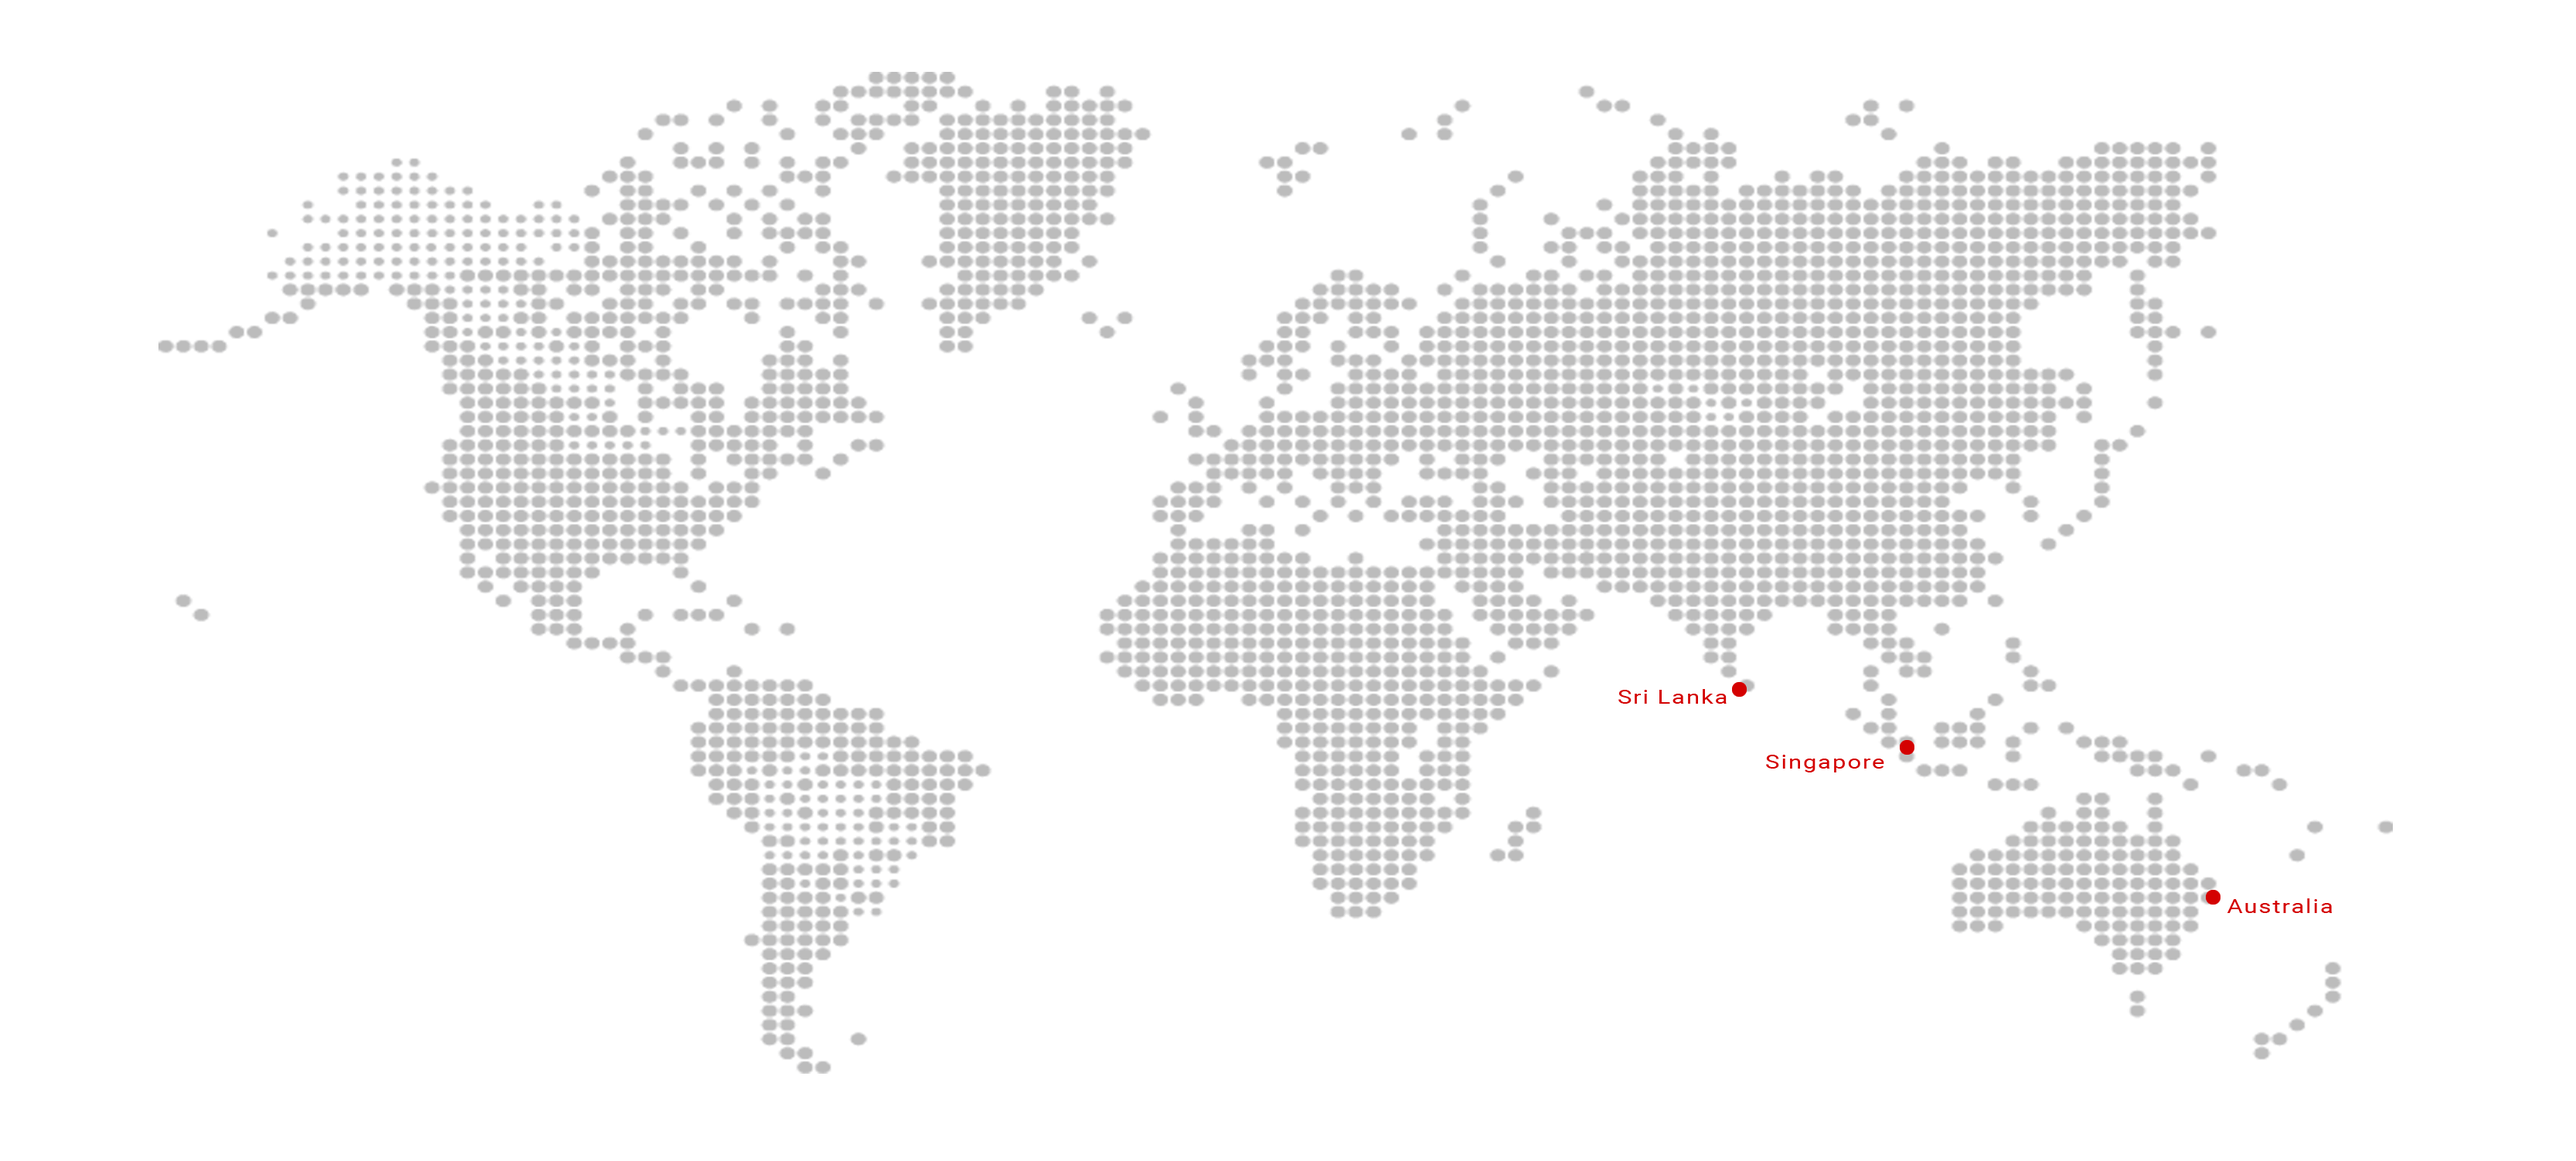
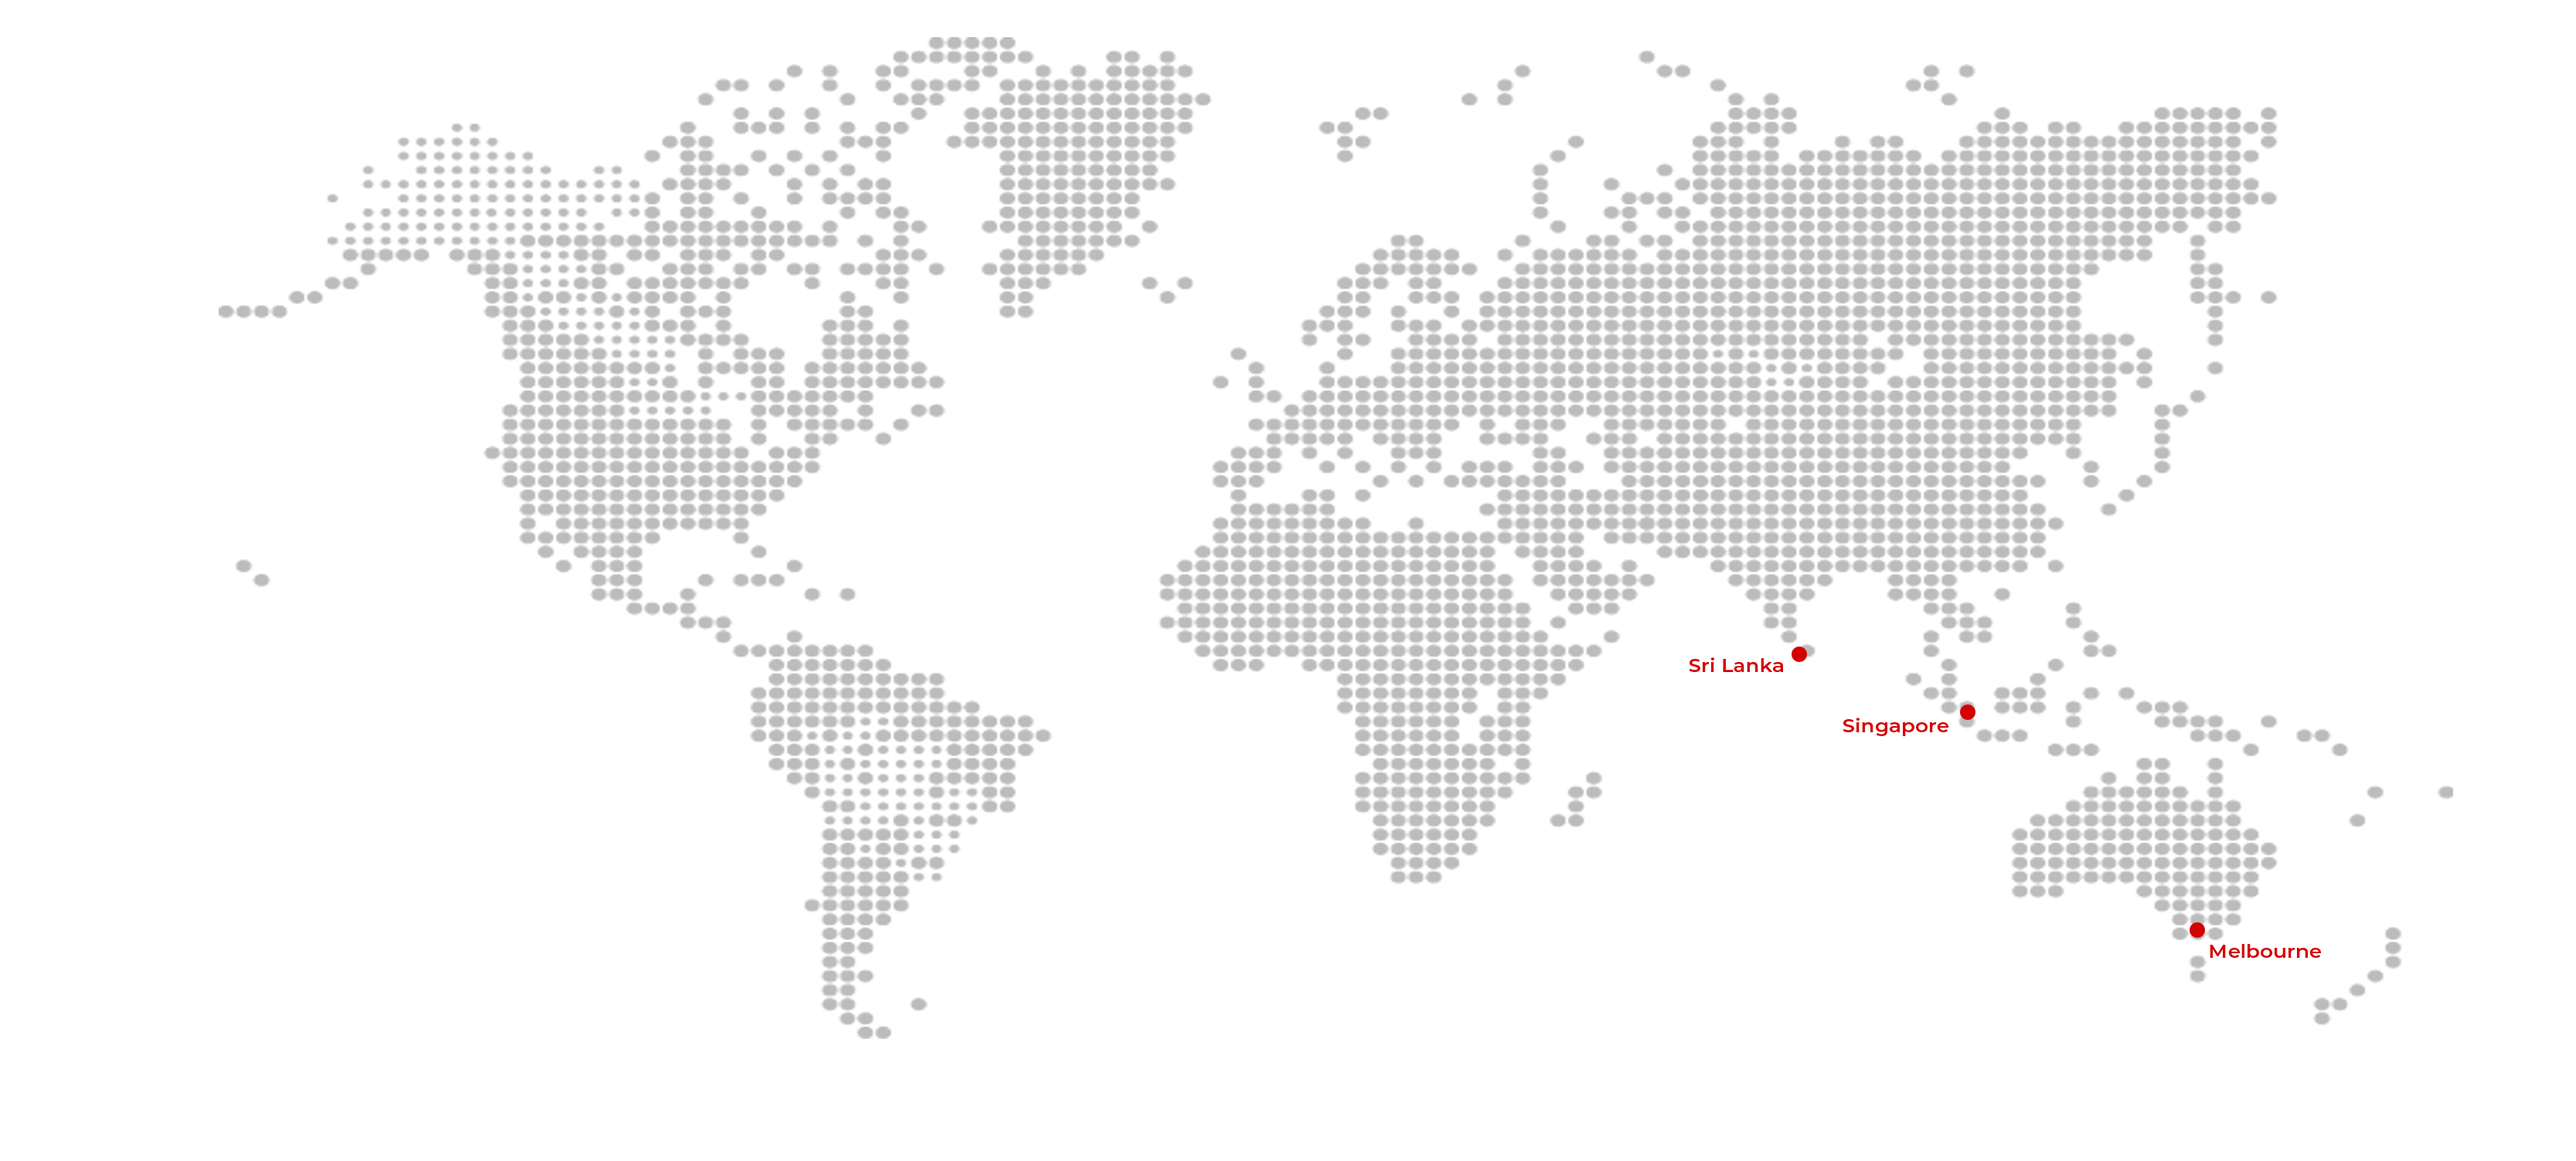
Add new modification home

diff --git a/index.html b/index.html
@@ -379,7 +379,7 @@
                                 <div class="cReport">
                                     <h3> M&T FLAGSHIP PRODUCT </h3>
                                     <h2> Smart Transit </h2>
-                                    <h4 class="crop-text-4 text-justify">Comprehensive, Interoperable, Open Standard and Cloud Ready Automated Fare Collection (AFC) Platform to Track, Collect & Automate transportation operation workflows, fleet, assets, routes, customers, drivers and other stakeholders.</h4>
+                                    <h4 class="crop-text-4 text-left">Comprehensive, Interoperable, Open Standard and Cloud Ready Automated Fare Collection (AFC) Platform to Track, Collect & Automate transportation operation workflows, fleet, assets, routes, customers, drivers and other stakeholders.</h4>
                                     <br>
                                 </div>
                                 <div class="row">
@@ -399,7 +399,7 @@
                                 <div class="cReport">
                                     <h3> BFSI FLAGSHIP PRODUCT </h3>
                                     <h2> Smart Pay </h2>
-                                    <h4 class="crop-text-4 text-justify">BFSI service providers such as commercial banks, specialized banks, micro finance companies, credit unions and other payment service providers to bestow cashless, queue-less, hassle-less, financial inclusive neo banking level services to consumers, merchants and SMEs.</h4>
+                                    <h4 class="crop-text-4 text-left">BFSI service providers such as commercial banks, specialized banks, micro finance companies, credit unions and other payment service providers to bestow cashless, queue-less, hassle-less, financial inclusive neo banking level services to consumers, merchants and SMEs.</h4>
                                     <br>
                                 </div>
                                 <div class="row">
@@ -419,7 +419,7 @@
                                 <div class="cReport">
                                     <h3> RETAIL FLAGSHIP PRODUCT </h3>
                                     <h2> Smart Shopper </h2>
-                                    <h4 class="crop-text-4 text-justify"> Mobile centric, Digital Marketplace & Payment Platform for all the users across entire retail value chain, which creates a positive customer experience and better synergy with whole stakeholders. </h4>
+                                    <h4 class="crop-text-4 text-left"> Mobile centric, Digital Marketplace & Payment Platform for all the users across entire retail value chain, which creates a positive customer experience and better synergy with whole stakeholders. </h4>
                                     <br>
                                 </div>
                                 <div class="row">
@@ -556,7 +556,7 @@
 </section>
 
 <section class="bg-white py-5 my-5">
-    <duv class="bg-skyblue">
+    <div class="">
         <div class="container">
 
             <div class="toolbar mb2 mt2">
@@ -619,134 +619,16 @@
                 <div class="tile scale-anm pr all">
                     <img class="img-fluid" src="./img/portfolio-18.jpg" alt="" />
                 </div>
-                <div class="tile scale-anm pr all news">
-<!--                    <div class="col-lg-4 col-md-12 mb-4 mb-lg-0">-->
-                        <!-- News block -->
-                        <div>
-                            <!-- Featured image -->
-                            <div class="bg-image hover-overlay shadow-1-strong ripple rounded-5 mb-4" data-mdb-ripple-color="light">
-                                <img src="https://mdbootstrap.com/img/new/fluid/city/113.jpg" class="img-fluid" />
-                                <a href="#!">
-                                    <div class="mask" style="background-color: rgba(251, 251, 251, 0.15);"></div>
-                                </a>
-                            </div>
-
-                            <!-- Article data -->
-                            <div class="row mb-3">
-                                <div class="col-6">
-                                    <a href="" class="text-info">
-                                        <i class="fas fa-plane"></i>
-                                        Travels
-                                    </a>
-                                </div>
-
-                                <div class="col-6 text-end">
-                                    <u> 15.07.2020</u>
-                                </div>
-                            </div>
-
-                            <!-- Article title and description -->
-                            <a href="" class="text-dark">
-                                <h5>This is title of the news</h5>
-
-                                <p>
-                                    Lorem ipsum dolor sit amet consectetur adipisicing elit. Odit, iste aliquid. Sed
-                                    id nihil magni, sint vero provident esse numquam perferendis ducimus dicta
-                                    adipisci iusto nam temporibus modi animi laboriosam?
-                                </p>
-                            </a>
-
-                            <hr />
-
-                        </div>
-                        <!-- News block -->
-
+                <div class="tile scale-anm all news">
+                    <a href="https://www.facebook.com/1515213222065350/posts/2369139566672707/?d=n" target="_blank"> <img class="img-fluid" src="./img/news01.jpeg" alt="" /></a>
                 </div>
-                <div class="tile scale-anm pr all news">
-
-                        <!-- News block -->
-                        <div>
-                            <!-- Featured image -->
-                            <div class="bg-image hover-overlay shadow-1-strong rounded-5 ripple mb-4" data-mdb-ripple-color="light">
-                                <img src="https://mdbootstrap.com/img/new/fluid/city/011.jpg" class="img-fluid" />
-                                <a href="#!">
-                                    <div class="mask" style="background-color: rgba(251, 251, 251, 0.15);"></div>
-                                </a>
-                            </div>
-
-                            <!-- Article data -->
-                            <div class="row mb-3">
-                                <div class="col-6">
-                                    <a href="" class="text-danger">
-                                        <i class="fas fa-chart-pie"></i>
-                                        Business
-                                    </a>
-                                </div>
-
-                                <div class="col-6 text-end">
-                                    <u> 15.07.2020</u>
-                                </div>
-                            </div>
-
-                            <!-- Article title and description -->
-                            <a href="" class="text-dark">
-                                <h5>This is title of the news</h5>
-
-                                <p>
-                                    Lorem ipsum dolor sit amet consectetur adipisicing elit. Odit, iste aliquid. Sed
-                                    id nihil magni, sint vero provident esse numquam perferendis ducimus dicta
-                                    adipisci iusto nam temporibus modi animi laboriosam?
-                                </p>
-                            </a>
-
-                            <hr />
-
-                        </div>
-                        <!-- News block -->
-                </div>
-                <div class="tile scale-anm pr all news">
-                        <!-- News block -->
-                        <div>
-                            <!-- Featured image -->
-                            <div class="bg-image hover-overlay shadow-1-strong rounded-5 ripple mb-4" data-mdb-ripple-color="light">
-                                <img src="https://mdbootstrap.com/img/new/fluid/city/018.jpg" class="img-fluid" />
-                                <a href="#!">
-                                    <div class="mask" style="background-color: rgba(251, 251, 251, 0.15);"></div>
-                                </a>
-                            </div>
-
-                            <!-- Article data -->
-                            <div class="row mb-3">
-                                <div class="col-6">
-                                    <a href="" class="text-warning">
-                                        <i class="fas fa-code"></i>
-                                        Technology
-                                    </a>
-                                </div>
-
-                                <div class="col-6 text-end">
-                                    <u> 15.07.2020</u>
-                                </div>
-                            </div>
-
-                            <!-- Article title and description -->
-                            <a href="" class="text-dark">
-                                <h5>This is title of the news</h5>
-
-                                <p>
-                                    Lorem ipsum dolor sit amet consectetur adipisicing elit. Odit, iste aliquid. Sed
-                                    id nihil magni, sint vero provident esse numquam perferendis ducimus dicta
-                                    adipisci iusto nam temporibus modi animi laboriosam?
-                                </p>
-                            </a>
-                            <hr />
-                        </div>
-                        <!-- News block -->
+                <div class="tile scale-anm all news">
+                    <a href="https://www.ft.lk/IT-Telecom-Tech/Silverleap-with-LB-Finance-launches-LB-CIM-to-drive-digitisation-of-SL-payment-ecosystem/50-692840" target="_blank"><img class="img-fluid" src="./img/news-02.jpeg" alt="" /></a>
                 </div>
             </div>
 
         </div>
-    </duv>
+    </div>
 </section>
 
 <section class="bg-gray">

diff --git a/css/style.css b/css/style.css
@@ -1454,16 +1454,16 @@ a.cContactButton {
     animation: pulse 1.5s infinite ease-out 0.3s;
 }
 .dot-15 {
-    top: 63.3%;
-    left: 73.8%;
+    top: 60.3%;
+    left: 76.1%;
 }
 .dot-18 {
-    top: 58.3%;
-    left: 67.2%;
+    top: 55.3%;
+    left: 69.6%;
 }
 .dot-21 {
-    top: 76%;
-    left: 85.7%;
+    top: 79%;
+    left: 85%;
 }
 @media (min-width: 768px) {
     .dot {
